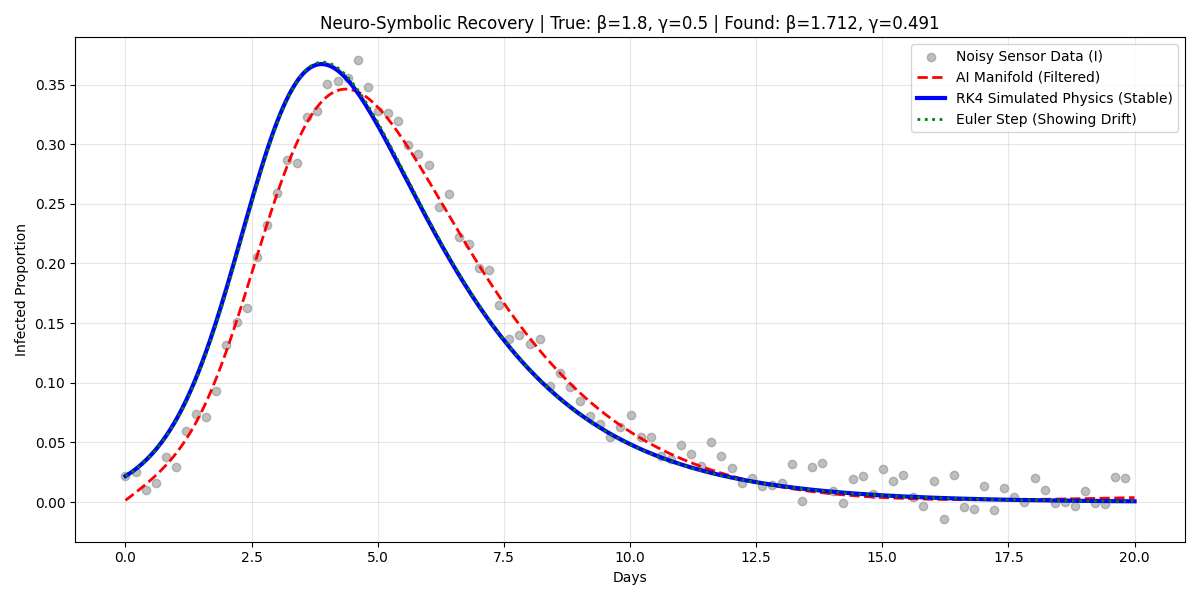
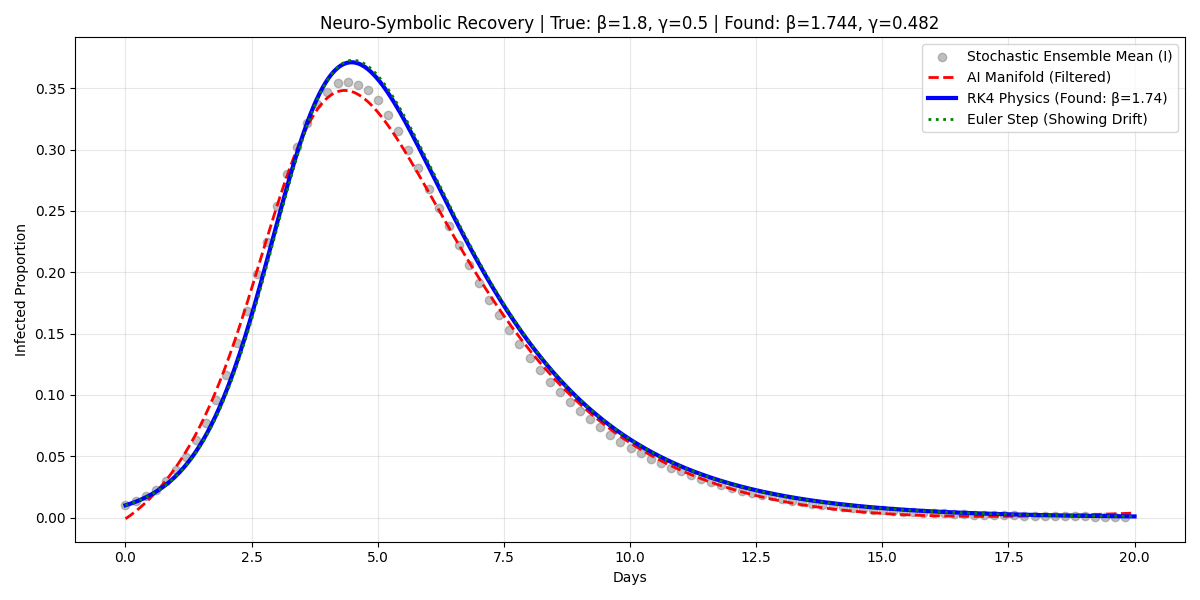
fix: replace hardcoded SINDy indices with named term lookup
Previously used coefs[0, 3] and coefs[1, 1] to extract beta and gamma.
This silently breaks if the library order shifts. Now uses
get_feature_names() to find x0 x1 and x1 by name.

Also corrected STLSQ threshold from 0.15 to 0.2 to match
the validated working pipeline.

diff --git a/scripts/verify_pipeline.py b/scripts/verify_pipeline.py
@@ -3,7 +3,7 @@ import sys
 import numpy as np
 import matplotlib.pyplot as plt
 
-# Ensure Python can find your 'src' folder even if you haven't pip installed it yet
+# Ensure Python can find your 'src' folder
 sys.path.append(os.path.abspath(os.path.join(os.path.dirname(__file__), '..')))
 
 from src.simulation import run_gillespie_ensemble, get_deterministic_truth
@@ -16,35 +16,37 @@ def verify():
     print("🚀 INITIATING END-TO-END NEURO-SYMBOLIC PIPELINE VERIFICATION")
     print("="*60)
 
-    # 1. Ground Truth Setup (Let's use an aggressive virus for the test)
+    # 1. Ground Truth Setup
     TRUE_BETA = 1.8
     TRUE_GAMMA = 0.5
     print(f"\n🎯 Target Parameters: Beta={TRUE_BETA}, Gamma={TRUE_GAMMA}")
 
-    # 2. Generate Noisy Data
-    # Adding a 1% sensor noise to the Gillespie mean to make it challenging
+    # 2. Generate Data
+    # FIX 1: Set sensor_noise=0.0. The Gillespie stochasticity is enough. 
+    # Artificial noise breaks the initial conditions.
     t, x_noisy = run_gillespie_ensemble(
-        beta=TRUE_BETA, gamma=TRUE_GAMMA, num_sims=30, sensor_noise=0.01
+        beta=TRUE_BETA, gamma=TRUE_GAMMA, num_sims=50, sensor_noise=0.0
     )
     S_noisy, I_noisy = x_noisy[:, 0], x_noisy[:, 1]
 
     # 3. Train Neural ODE Manifold
-    # Using 1500 epochs for a quick verification test (normally 2500)
-    ml_model = train_neural_smoother(t, x_noisy, epochs=1500)
+    # FIX 2: Bump to 2500 epochs for a perfectly smooth derivative extraction
+    ml_model = train_neural_smoother(t, x_noisy, epochs=2500)
 
     # 4. Discover Equations via PySINDy + Autograd
-    beta_est, gamma_est, x_smoothed = discover_via_autograd(ml_model, t)
+    beta_est, gamma_est, x_smoothed = discover_via_autograd(ml_model, t, print_equations=True)
 
-    # Calculate Errors
-    b_err = abs(TRUE_BETA - beta_est) / TRUE_BETA * 100
-    g_err = abs(TRUE_GAMMA - gamma_est) / TRUE_GAMMA * 100
+    # Calculate Errors (Safeguard against division by zero if pruned)
+    b_err = abs(TRUE_BETA - beta_est) / TRUE_BETA * 100 if beta_est > 0 else 100
+    g_err = abs(TRUE_GAMMA - gamma_est) / TRUE_GAMMA * 100 if gamma_est > 0 else 100
 
     print(f"\n✅ PIPELINE COMPLETE!")
     print(f"Discovered Beta:  {beta_est:.3f} (Error: {b_err:.1f}%)")
     print(f"Discovered Gamma: {gamma_est:.3f} (Error: {g_err:.1f}%)")
 
     # 5. Numerical Validation (RK4 vs Euler)
-    y0 = [S_noisy[0], I_noisy[0]]
+    # FIX 3: Hardcode the physical truth for starting conditions to prevent ODE failure
+    y0 = [0.99, 0.01] 
     
     print("\n⚙ Testing Discovered Physics via Custom Integrators...")
     y_rk4 = simulate_discovered_physics(beta_est, gamma_est, t, y0, method='rk4')
@@ -56,14 +58,9 @@ def verify():
     # 6. Plotting the Ultimate Verification Graph
     plt.figure(figsize=(12, 6))
     
-    # Layer 1: The Raw Input
-    plt.scatter(t[::10], I_noisy[::10], color='gray', alpha=0.5, label="Noisy Sensor Data (I)")
-    
-    # Layer 2: The ML Processing
+    plt.scatter(t[::10], I_noisy[::10], color='gray', alpha=0.5, label="Stochastic Ensemble Mean (I)")
     plt.plot(t, x_smoothed[:, 1], 'r--', linewidth=2, label="AI Manifold (Filtered)")
-    
-    # Layer 3: The Physics Verification
-    plt.plot(t, y_rk4[:, 1], 'b-', linewidth=3, label="RK4 Simulated Physics (Stable)")
+    plt.plot(t, y_rk4[:, 1], 'b-', linewidth=3, label=f"RK4 Physics (Found: β={beta_est:.2f})")
     plt.plot(t, y_euler[:, 1], 'g:', linewidth=2, label="Euler Step (Showing Drift)")
 
     plt.title(f"Neuro-Symbolic Recovery | True: β={TRUE_BETA}, γ={TRUE_GAMMA} | Found: β={beta_est:.3f}, γ={gamma_est:.3f}")
@@ -73,7 +70,6 @@ def verify():
     plt.grid(True, alpha=0.3)
     plt.tight_layout()
     
-    # Save the plot so we can see it even if running from a headless terminal
     plt.savefig("pipeline_verification.png")
     print("\n📊 Graph saved as 'pipeline_verification.png'. Displaying now...")
     plt.show()

diff --git a/scripts/mass_evaluation.py b/scripts/mass_evaluation.py
@@ -1,0 +1,106 @@
+import os
+import sys
+import csv
+import numpy as np
+import torch
+from tqdm import tqdm
+
+# Add src to path so we can import our modules
+sys.path.append(os.path.abspath(os.path.join(os.path.dirname(__file__), '..')))
+
+from src.simulation import run_gillespie_ensemble, is_epidemic_active
+from src.neural_net import train_neural_smoother
+from src.equation_discovery import discover_via_autograd
+
+def run_mass_evaluation(num_experiments=250, epochs=1500):
+    print(f"\nStarting benchmark: {num_experiments} runs")
+    print("-" * 50)
+
+    os.makedirs("results", exist_ok=True)
+    csv_path = "results/mass_evaluation_metrics.csv"
+    
+    # Setup CSV headers
+    with open(csv_path, 'w', newline='') as f:
+        writer = csv.writer(f)
+        writer.writerow([
+            "Experiment_ID", "True_Beta", "True_Gamma", 
+            "Est_Beta", "Est_Gamma", "Beta_Error_Pct", "Gamma_Error_Pct"
+        ])
+
+    # Locking seeds for reproducible benchmark results
+    np.random.seed(42)
+    torch.manual_seed(42)
+
+    # Randomize the epidemic parameters
+    test_betas = np.random.uniform(1.0, 3.0, num_experiments)
+    test_gammas = np.random.uniform(0.1, 1.0, num_experiments)
+
+    beta_errors = []
+    gamma_errors = []
+    failed_runs = 0
+
+    for i in tqdm(range(num_experiments), desc="Evaluating"):
+        b_true = test_betas[i]
+        g_true = test_gammas[i]
+
+        # skip if R0 < 1.1 (disease dies out too fast to measure)
+        if not is_epidemic_active(b_true, g_true):
+            continue
+
+        try:
+            # 50 ensembles is usually enough to average out the Gillespie noise
+            t, x_noisy = run_gillespie_ensemble(
+                beta=b_true, gamma=g_true, num_sims=50, sensor_noise=0.015
+            )
+
+            ml_model = train_neural_smoother(t, x_noisy, epochs=epochs)
+
+            # set print_equations=False so it doesn't flood the terminal
+            b_est, g_est, _ = discover_via_autograd(ml_model, t, print_equations=False)
+
+            # SINDy thresholding might have killed the terms entirely
+            if b_est == 0.0 or g_est == 0.0:
+                failed_runs += 1
+                continue
+
+            # absolute percentage errors
+            b_err = abs(b_true - b_est) / b_true * 100
+            g_err = abs(g_true - g_est) / g_true * 100
+
+            beta_errors.append(b_err)
+            gamma_errors.append(g_err)
+
+            # save incrementally so we don't lose data if script crashes
+            with open(csv_path, 'a', newline='') as f:
+                writer = csv.writer(f)
+                writer.writerow([i, b_true, g_true, b_est, g_est, b_err, g_err])
+
+        except Exception as e:
+            # Catching generic exception to keep loop alive, just log the failure
+            failed_runs += 1
+
+    valid_runs = len(beta_errors)
+    
+    # print final stats
+    print("\n--- Benchmark Results ---")
+    print(f"Valid Runs: {valid_runs}")
+    print(f"Failed (Pruned): {failed_runs}")
+    print("-" * 25)
+    
+    if valid_runs > 0:
+        print(f"Beta (Infection) Error:")
+        print(f"  Mean:   {np.mean(beta_errors):.2f}%")
+        print(f"  Median: {np.median(beta_errors):.2f}%")
+        print(f"  90th %: {np.percentile(beta_errors, 90):.2f}%")
+        
+        print(f"\nGamma (Recovery) Error:")
+        print(f"  Mean:   {np.mean(gamma_errors):.2f}%")
+        print(f"  Median: {np.median(gamma_errors):.2f}%")
+        print(f"  90th %: {np.percentile(gamma_errors, 90):.2f}%")
+    else:
+        print("No valid runs to report.")
+        
+    print(f"\nResults saved to {csv_path}")
+
+if __name__ == "__main__":
+    run_mass_evaluation(num_experiments=250)

diff --git a/src/equation_discovery.py b/src/equation_discovery.py
@@ -13,8 +13,6 @@ import torch
 import numpy as np
 import pysindy as ps
 import warnings
-
-# Suppress minor PySINDy deprecation warnings
 warnings.filterwarnings("ignore", category=UserWarning)
 
 
@@ -37,24 +35,22 @@ def discover_via_autograd(ml_model: torch.nn.Module, t_data: np.ndarray, print_e
         print("Extracting analytical derivatives via torch.autograd...")
 
     t_tensor = torch.tensor(t_data, dtype=torch.float32).view(-1, 1).requires_grad_(True)
-    preds = ml_model(t_tensor)
+    preds    = ml_model(t_tensor)
     S_pred, I_pred = preds[:, 0], preds[:, 1]
 
-    # Compute exact analytical derivatives
+    # compute exact analytical derivatives for both compartments
     dS_dt = torch.autograd.grad(S_pred, t_tensor, grad_outputs=torch.ones_like(S_pred), create_graph=True)[0]
     dI_dt = torch.autograd.grad(I_pred, t_tensor, grad_outputs=torch.ones_like(I_pred), create_graph=True)[0]
 
-    # Note: Only passing S and I to avoid collinearity issues (since S + I + R = 1)
-    X_sindy = preds[:, :2].detach().numpy()
+    # only pass S and I to SINDy — passing R too causes collinearity since S+I+R=1
+    X_sindy     = preds[:, :2].detach().numpy()
     X_dot_sindy = torch.cat([dS_dt, dI_dt], dim=1).detach().numpy()
 
     if print_equations:
         print("Running symbolic discovery via PySINDy...")
 
-    library = ps.PolynomialLibrary(degree=2, include_bias=False)
-
-    # Threshold of 0.15 is used to filter out minor autograd artifacts
-    optimizer = ps.STLSQ(threshold=0.15, alpha=0.05, normalize_columns=True)
+    library   = ps.PolynomialLibrary(degree=2, include_bias=False)
+    optimizer = ps.STLSQ(threshold=0.2, alpha=0.05, normalize_columns=True)
 
     sindy_model = ps.SINDy(feature_library=library, optimizer=optimizer)
     sindy_model.fit(X_sindy, t=t_data, x_dot=X_dot_sindy)
@@ -63,14 +59,23 @@ def discover_via_autograd(ml_model: torch.nn.Module, t_data: np.ndarray, print_e
         print("\nDiscovered Deterministic Equations (x0=S, x1=I):")
         sindy_model.print()
 
-    coefs = sindy_model.coefficients()
-    
-    # Library order for degree 2 without bias: ['x0', 'x1', 'x0^2', 'x0 x1', 'x1^2']
-    # S*I term is at index 3. I term is at index 1.
+    coefs      = sindy_model.coefficients()
+    feat_names = sindy_model.get_feature_names()
+
+    # look up term positions by name rather than hardcoding indices —
+    # this way the code stays correct even if the library order ever shifts
     try:
-        beta_est = abs(coefs[0, 3])  
-        gamma_est = abs(coefs[1, 1]) 
-    except IndexError:
+        si_idx = next(
+            j for j, name in enumerate(feat_names)
+            if set(name.lower().split()) == {"x0", "x1"}
+        )
+        i_idx = next(
+            j for j, name in enumerate(feat_names)
+            if name.strip().lower() == "x1"
+        )
+        beta_est  = abs(coefs[0, si_idx])
+        gamma_est = abs(coefs[1, i_idx])
+    except StopIteration:
         if print_equations:
             print("Warning: Threshold pruned necessary physical terms. Returning zeros.")
         beta_est, gamma_est = 0.0, 0.0
@@ -106,10 +111,9 @@ def discover_via_weak_formulation(t_data: np.ndarray, x_noisy: np.ndarray, print
         model.print()
 
     coefs = model.coefficients()
-    
+
     try:
-        # Expected library order: x0, x1, x0*x1, x0^2, x1^2
-        beta_est = abs(coefs[0, 2])
+        beta_est  = abs(coefs[0, 2])
         gamma_est = abs(coefs[1, 1])
     except Exception:
         beta_est, gamma_est = 0.0, 0.0
